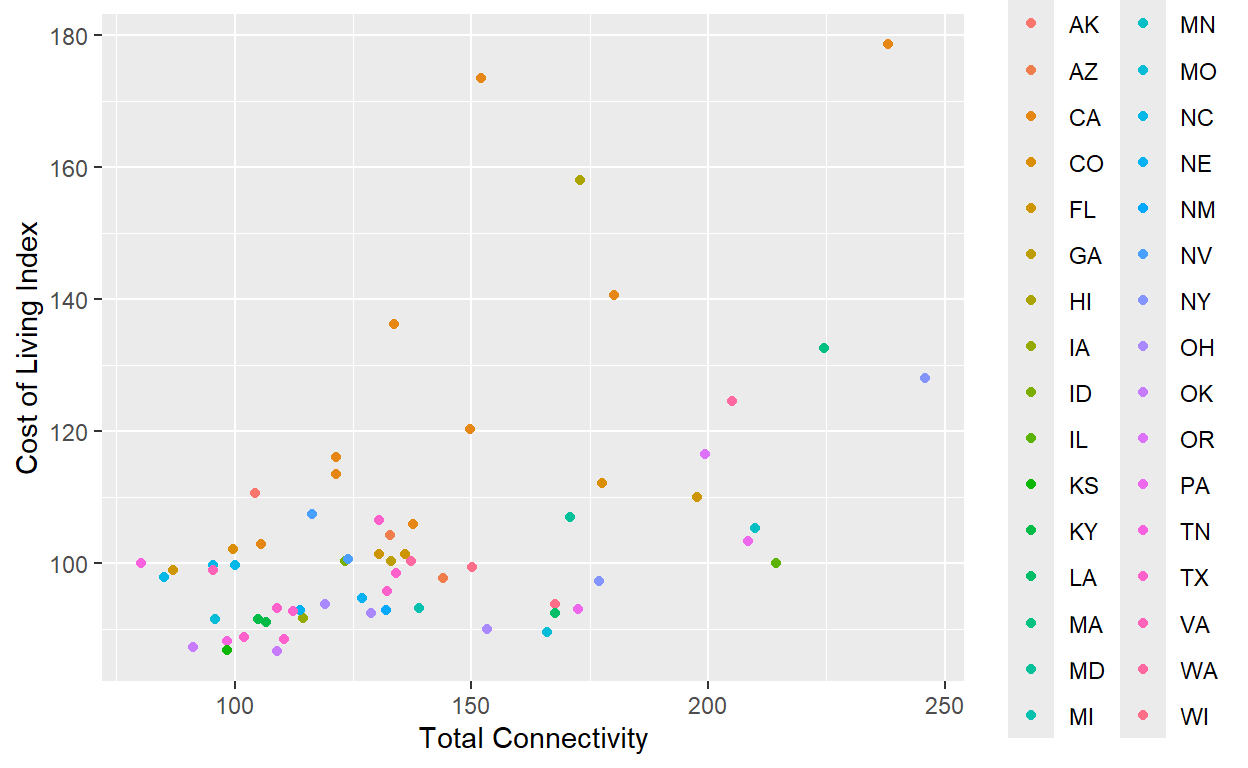
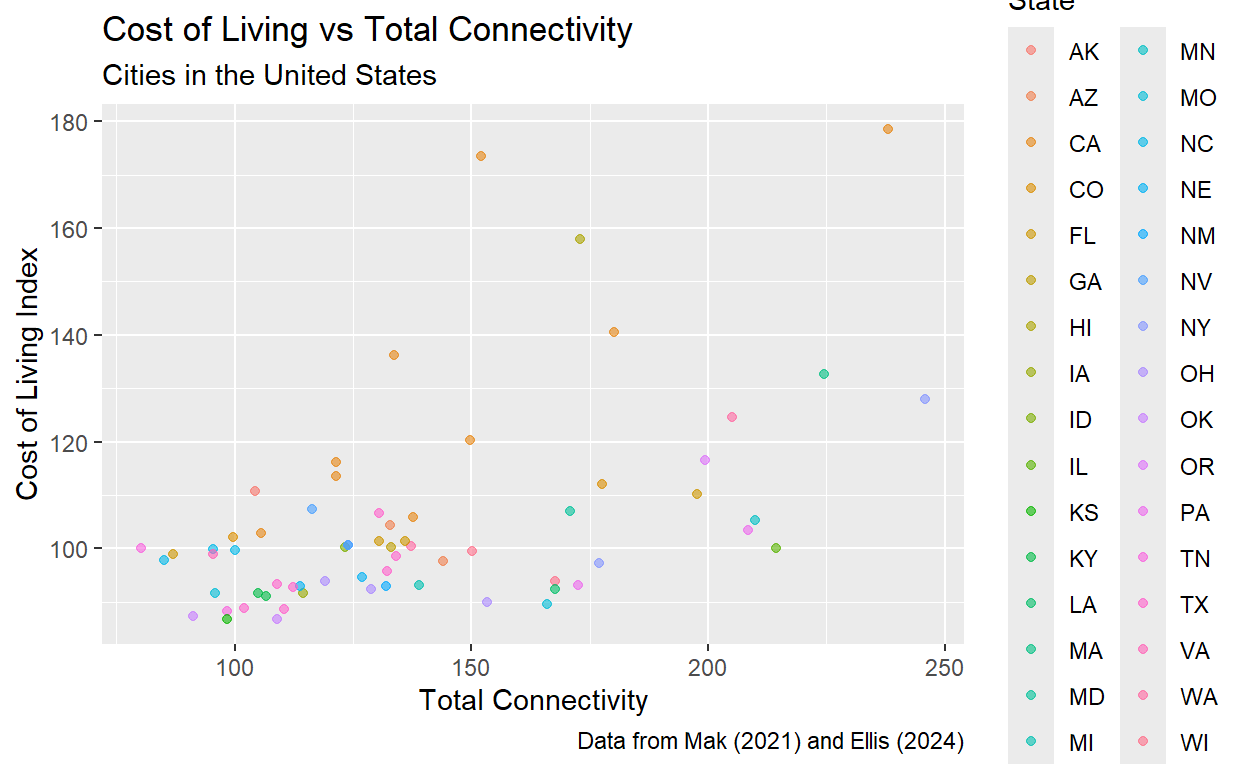
actual final

diff --git a/index.html b/index.html
@@ -1663,9 +1663,11 @@ $ `Total Connectivity`   &lt;dbl&gt; 132.1, 104.3, 133.1, 130.5, 105.6, 17…</c
 <div class="sourceCode">
 <pre class="sourceCode r"><code class="sourceCode r"><span><span class='va'>cities</span> <span class='op'>|&gt;</span></span>
 <span>  <span class='fu'><a href='https://ggplot2.tidyverse.org/reference/ggplot.html'>ggplot</a></span><span class='op'>(</span><span class='fu'><a href='https://ggplot2.tidyverse.org/reference/aes.html'>aes</a></span><span class='op'>(</span>y <span class='op'>=</span> <span class='va'>`Cost of Living Index`</span>,</span>
-<span>             x <span class='op'>=</span> <span class='va'>`Total Connectivity`</span>,</span>
-<span>             color <span class='op'>=</span> <span class='va'>State</span><span class='op'>)</span><span class='op'>)</span> <span class='op'>+</span></span>
-<span>  <span class='fu'><a href='https://ggplot2.tidyverse.org/reference/geom_point.html'>geom_point</a></span><span class='op'>(</span><span class='op'>)</span> </span></code></pre>
+<span>             x <span class='op'>=</span> <span class='va'>`Total Connectivity`</span><span class='op'>)</span><span class='op'>)</span> <span class='op'>+</span></span>
+<span>  <span class='fu'><a href='https://ggplot2.tidyverse.org/reference/geom_point.html'>geom_point</a></span><span class='op'>(</span>mapping <span class='op'>=</span> <span class='fu'><a href='https://ggplot2.tidyverse.org/reference/aes.html'>aes</a></span><span class='op'>(</span>color <span class='op'>=</span> <span class='va'>State</span><span class='op'>)</span>, alpha <span class='op'>=</span> <span class='fl'>0.6</span><span class='op'>)</span> <span class='op'>+</span></span>
+<span>  <span class='fu'><a href='https://ggplot2.tidyverse.org/reference/labs.html'>labs</a></span><span class='op'>(</span>title <span class='op'>=</span> <span class='st'>"Cost of Living vs Total Connectivity"</span>,</span>
+<span>       subtitle <span class='op'>=</span> <span class='st'>"Cities in the United States"</span>,</span>
+<span>       caption <span class='op'>=</span> <span class='st'>"Data from Mak (2021) and Ellis (2024)"</span><span class='op'>)</span></span></code></pre>
 </div>
 <p><img src="index_files/figure-html5/unnamed-chunk-10-1.png" width="624" /></p>
 </div>
